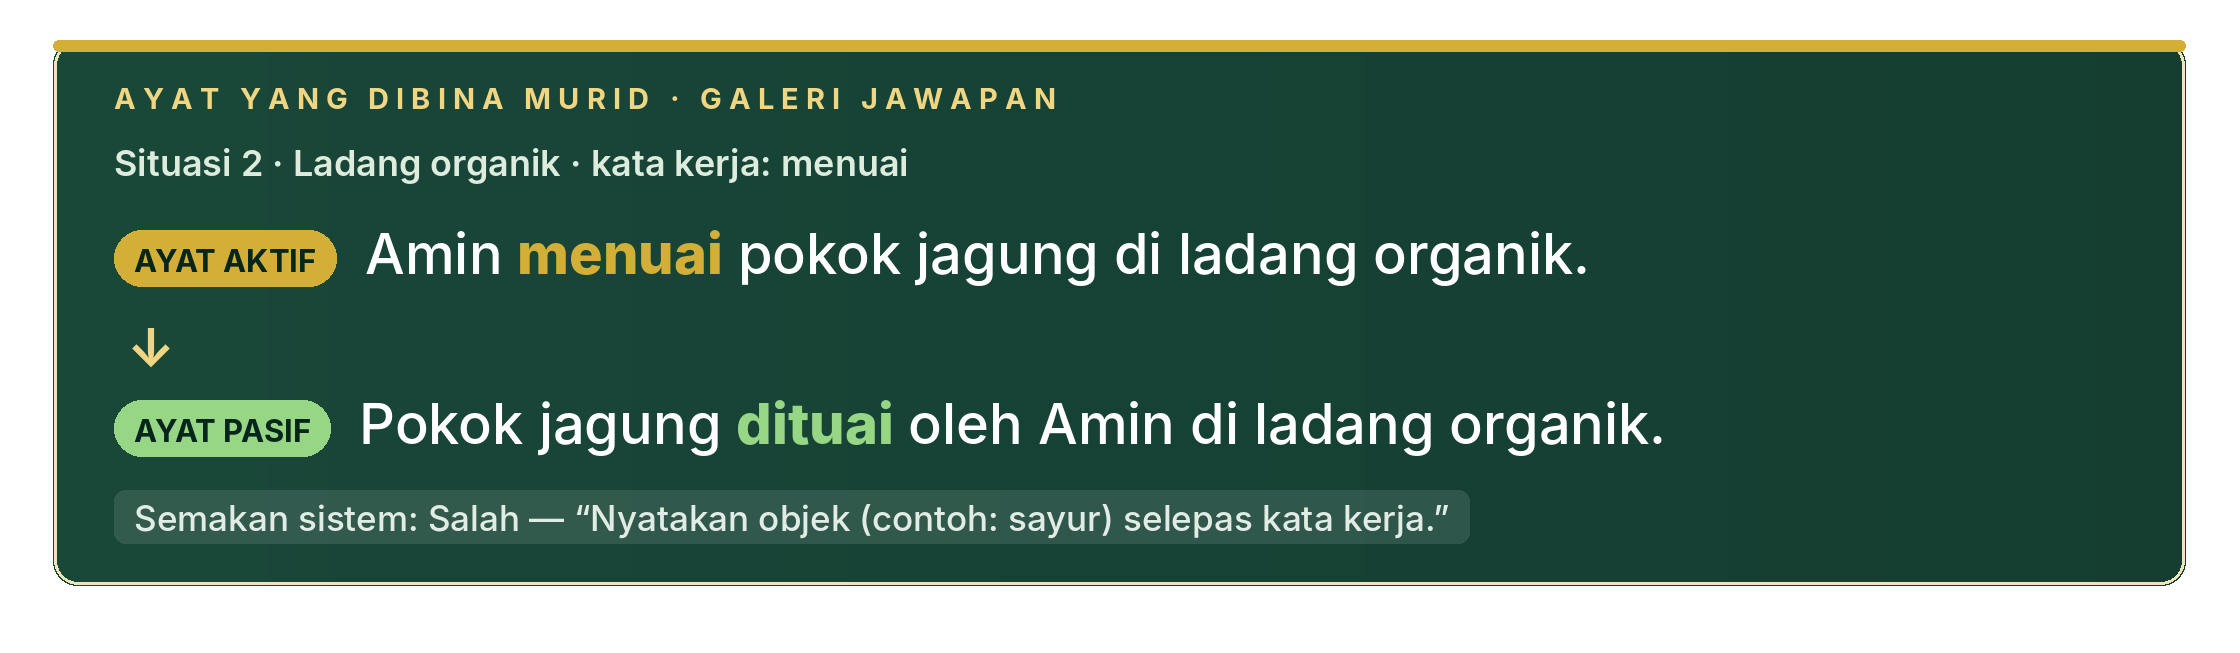
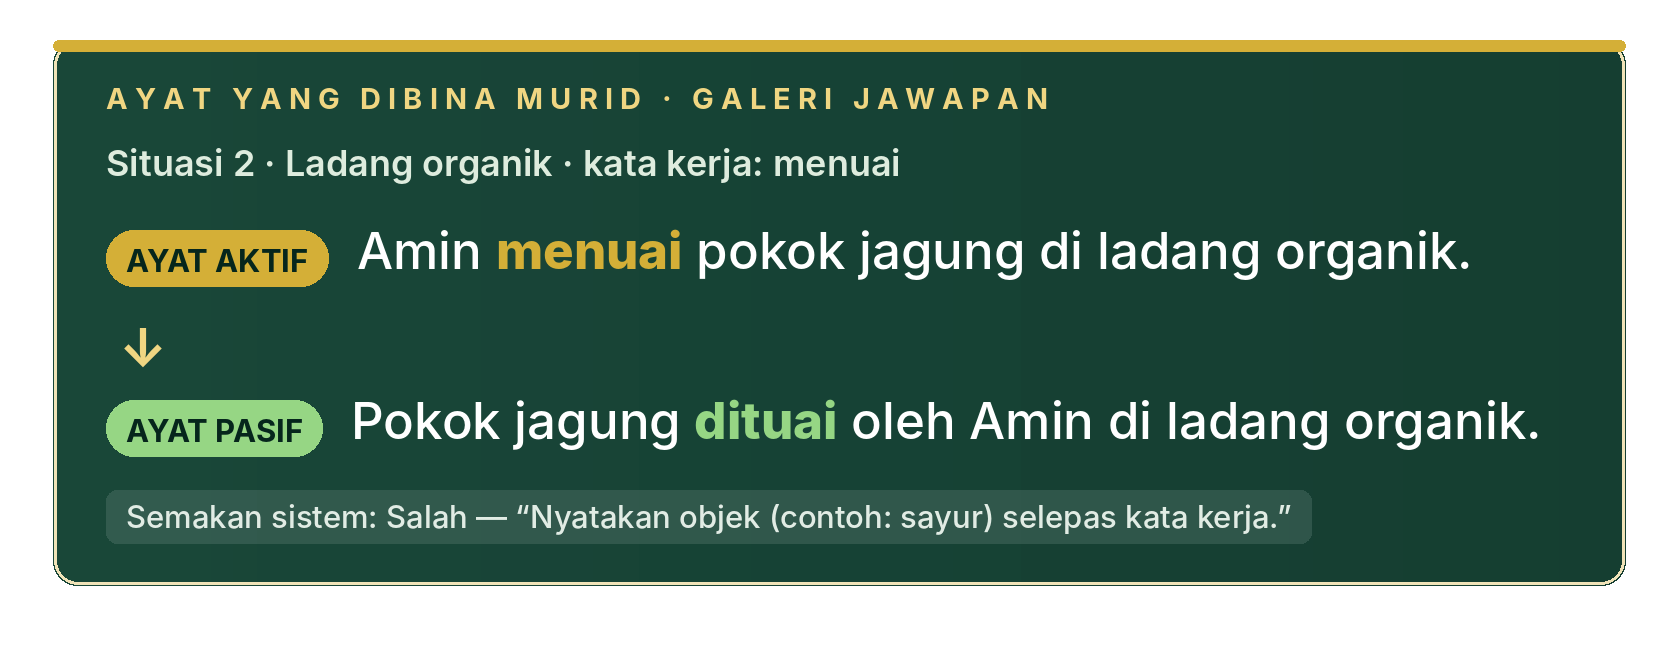
v5 prep: no repeated B-roll (cutaway pools exclude used footage), compact shorter sentence panels placed away from faces
Claude-Session: https://claude.ai/code/session_01LUdMFAyKNeAEvmBmT2Usm8

Changed region(s): [[0.0, 0.0613, 0.9286, 0.9188], [0.9595, 0.0613, 0.9905, 0.8882]]

diff --git a/HOTEL_HIJAU_VIDEO/07_PROJECT_FILES/build_video.py b/HOTEL_HIJAU_VIDEO/07_PROJECT_FILES/build_video.py
@@ -126,16 +126,26 @@ def add(src, start, frames, crop=None, audio="own", zoom=None, blur=False, tag="
                       tag=tag, label=label, t_final=now(), v1d=v1d))
 def mark(n): markers[n] = now()
 
+_active_pools = {}
 def take_cutaway(tag, need):
-    """Ambil cutaway daripada kolam fasa. Pulang senarai (v2_start, tempoh)."""
-    pool = CUTAWAY[tag]; i, off = _pool.get(tag, (0, 0.0)); got = []
-    tries = 0
-    while need > 0.05 and tries < len(pool):
-        a, b = pool[i % len(pool)]; avail = (b - a) - off
-        if avail < 1.0: i += 1; off = 0.0; tries += 1; continue
+    """Ambil cutaway daripada kolam fasa (tanpa ulangan: setiap saat vid2 digunakan sekali sahaja).
+    Pulang senarai (v2_start, tempoh)."""
+    pool = _active_pools.get(tag, CUTAWAY[tag]); i, off = _pool.get(tag, (0, 0.0)); got = []
+    while need > 0.05 and i < len(pool):
+        a, b = pool[i]; avail = (b - a) - off
+        if avail < 1.0: i += 1; off = 0.0; continue
         d = min(need, avail); got.append((a + off, d)); need -= d; off += d
         if off >= (b - a) - 1.0: i += 1; off = 0.0
     _pool[tag] = (i, off); return got
+
+def _subtract(ranges, used):
+    out = []
+    for a, b in ranges:
+        segs = [(a, b)]
+        for u0, u1 in used:
+            segs = [z for s0, s1 in segs for z in ((s0, min(s1, u0)), (max(s0, u1), s1)) if z[1] - z[0] >= 1.0]
+        out += segs
+    return out
 
 def v1_piece(p0, p1, tag):
     for a, b, cr in frame_plan(p0, p1):
@@ -213,6 +223,15 @@ PLAN = [
 FLEX = ("langkah_2", 5)  # span yang dipendekkan/dipanjangkan supaya jumlah tepat 30:00
 
 def build_edl():
+    """Dua laluan: (1) tentukan B-roll selari yang digunakan; (2) bina semula dengan kolam cutaway yang TIDAK
+    bertindih dengan B-roll itu atau julat terkecuali — supaya tiada klip vid2 dipaparkan dua kali."""
+    _active_pools.clear(); _build_edl()
+    used = [(c["start"] - 0.2, c["start"] + c["frames"] / FPS + 0.2) for c in clips if c["src"] == "v2" and c["label"].startswith("seg")]
+    used += EXCLUDE_V2
+    for tag, pool in CUTAWAY.items(): _active_pools[tag] = _subtract(pool, used)
+    return _build_edl()
+
+def _build_edl():
     clips.clear(); markers.clear(); _pool.clear()
     plan = json.loads(json.dumps(PLAN))
     # kira tempoh kandungan & laraskan span FLEX
@@ -268,9 +287,9 @@ def overlay_events():
         ("popup_guru3", t_of_v1(1769.0)),  # close-up Guru 3 di hadapan kelas
         ("steps_ar", t_of_v1(1872.0)),
         ("ayat_galeri1", t_of_v1(2215.3)),  # Cikgu 3 membincangkan ayat Situasi 2 (menuai)
-        ("ayat_galeri2", t_of_v1(2367.3)),  # "Okey, semua baca" — ayat Situasi 3 (memasang)
+        ("ayat_galeri2", t_of_v1(2388.9)),  # "Jadi, bila ayat ini dipasifkan, apa ayatnya?" — ayat Situasi 3 (memasang)
         ("phase_penutup", M["penutup"] + 0.3),
-        ("ayat_rumusan", v3 + 7.4),
+        ("ayat_rumusan", v3 + 11.0),  # selepas murid membaca ayat aktif; pasif muncul ketika disebut
         ("credits_1", M["credits"] + 0.0), ("credits_2", M["credits"] + 10.0), ("credits_3", M["credits"] + 19.0),
         ("end_title", M["credits"] + 29.0),
     ]
@@ -610,6 +629,17 @@ def do_subs():
 # ------------------------------------------------------------------
 # Akhir
 # ------------------------------------------------------------------
+# Kedudukan panel ayat (dipilih supaya tidak menutup muka guru/murid dalam babak itu):
+# tc = atas-tengah, br = bawah-kanan (di atas zon sari kata), tl = atas-kiri
+PANEL_POS = {"ayat_misi2": "br", "ayat_galeri1": "tc", "ayat_galeri2": "br", "ayat_rumusan": "tl"}
+def panel_xy(name, g):
+    pos = PANEL_POS.get(name)
+    if pos is None: return {}
+    s = OW / 1920.0; m40, m50 = round(40 * s), round(50 * s)  # bingkai kad dalam kanvas grafik: kiri u(40), atas u(30), bawah u(50)
+    if pos == "br": return {"x": OW - 60 - (g["w"] - m40), "y": 1190 - (g["h"] - m50)}
+    if pos == "tl": return {"x": 60 - m40, "y": 50 - round(30 * s)}
+    return {"x": (OW - g["w"]) // 2, "y": 60}
+
 def do_final(preview=False):
     build_edl(); M = markers
     joined = os.path.join(WORK, "joined.mkv")
@@ -617,7 +647,7 @@ def do_final(preview=False):
     man = json.load(open(os.path.join(GFX, "manifest.json")))
     inputs = ["-i", joined]; fc = []; last = "[0:v]"; k = 1
     for name, t0 in overlay_events():
-        g = man[name]
+        g = dict(man[name]); g.update(panel_xy(name, g))
         inputs += ["-itsoffset", f"{t0:.3f}", "-i", os.path.join(GFX, name + ".mov")]
         fc.append(f"[{k}:v]format=rgba[g{k}]")
         fc.append(f"{last}[g{k}]overlay={g['x']}:{g['y']}:eof_action=pass:repeatlast=0[o{k}]"); last = f"[o{k}]"; k += 1

diff --git a/HOTEL_HIJAU_VIDEO/07_PROJECT_FILES/graphics.py b/HOTEL_HIJAU_VIDEO/07_PROJECT_FILES/graphics.py
@@ -72,24 +72,24 @@ SENTENCES = {
     "ayat_misi2": ("ARAHAN MISI 2 · SITUASI LADANG ORGANIK", [
         dict(tag="Tukar kepada ayat aktif", kind="PASIF",
              s1=[("Sayur-sayuran ", 0), ("dituai", 1), (" oleh tukang kebun di ladang organik.", 0)]),
-    ], 9.0),
+    ], 7.0),
     "ayat_galeri1": ("AYAT YANG DIBINA MURID · GALERI JAWAPAN", [
         dict(tag="Situasi 2 · Ladang organik · kata kerja: menuai", kind="AKTIF",
              s1=[("Amin ", 0), ("menuai", 1), (" pokok jagung di ladang organik.", 0)],
              s2=[("Pokok jagung ", 0), ("dituai", 1), (" oleh Amin di ladang organik.", 0)],
-             note="Semakan sistem: Salah — “Nyatakan objek (contoh: sayur) selepas kata kerja.”", reveal=7.0),
-    ], 37.0),
+             note="Semakan sistem: Salah — “Nyatakan objek (contoh: sayur) selepas kata kerja.”", reveal=5.0),
+    ], 14.0),
     "ayat_galeri2": ("AYAT YANG DIBINA MURID · GALERI JAWAPAN", [
         dict(tag="Situasi 3 · Lobi hotel · kata kerja: memasang", kind="AKTIF",
              s1=[("Amin ", 0), ("memasang", 1), (" lampu di lobi hotel.", 0)],
              s2=[("Lampu ", 0), ("dipasang", 1), (" di lobi hotel oleh Amin.", 0)],
-             note="Semakan sistem: Betul — semua ciri dipenuhi.", reveal=29.0),
-    ], 40.0),
+             note="Semakan sistem: Betul — semua ciri dipenuhi.", reveal=8.0),
+    ], 13.0),
     "ayat_rumusan": ("RUMUSAN · MURID MEMBACAKAN AYAT", [
         dict(tag="Ayat murid", kind="AKTIF",
              s1=[("Saya ", 0), ("mempelajari", 1), (" tajuk ayat aktif dan pasif.", 0)],
-             s2=[("Tajuk ayat aktif dan pasif saya ", 0), ("pelajari", 1), (".", 0)], reveal=8.5),
-    ], 15.0),
+             s2=[("Tajuk ayat aktif dan pasif saya ", 0), ("pelajari", 1), (".", 0)], reveal=4.5),
+    ], 10.0, 760),  # panel sempit di atas-kiri: murid yang membaca berdiri di tengah
 }
 
 # ---- Easing / util ----
@@ -333,10 +333,10 @@ def _rich(d, x, y, segs, f_n, f_b, col_n, col_b, maxw):
         cx += ww + (f_n.getlength(" ") if sp else 0)
     return cy + lh - y
 def sentence_panel(key):
-    title, items, per = SENTENCES[key]
+    title, items, per, *wd = SENTENCES[key]
     f_k = F("Inter-Bold.otf", 22); f_tag = F("Inter-SemiBold.otf", 27); f_chip = F("Inter-Bold.otf", 23)
-    f_n = F("Inter-Medium.otf", 42); f_b = F("Inter-ExtraBold.otf", 42); f_note = F("Inter-Medium.otf", 26)
-    pw = u(1600); pad = u(46)
+    f_n = F("Inter-Medium.otf", 38); f_b = F("Inter-ExtraBold.otf", 38); f_note = F("Inter-Medium.otf", 23)
+    pw = u(wd[0] if wd else 1180); pad = u(40)  # v4: panel padat — diletakkan di ruang kosong supaya tidak menutup muka (lihat PANEL_POS)
     def chip(d, x, y, label, col):
         w = int(f_chip.getlength(label) + u(30)); d.rounded_rectangle([x, y, x + w, y + u(42)], u(21), fill=col + (255,))
         d.text((x + u(15), y + u(8)), label, font=f_chip, fill=FOREST2); return w
